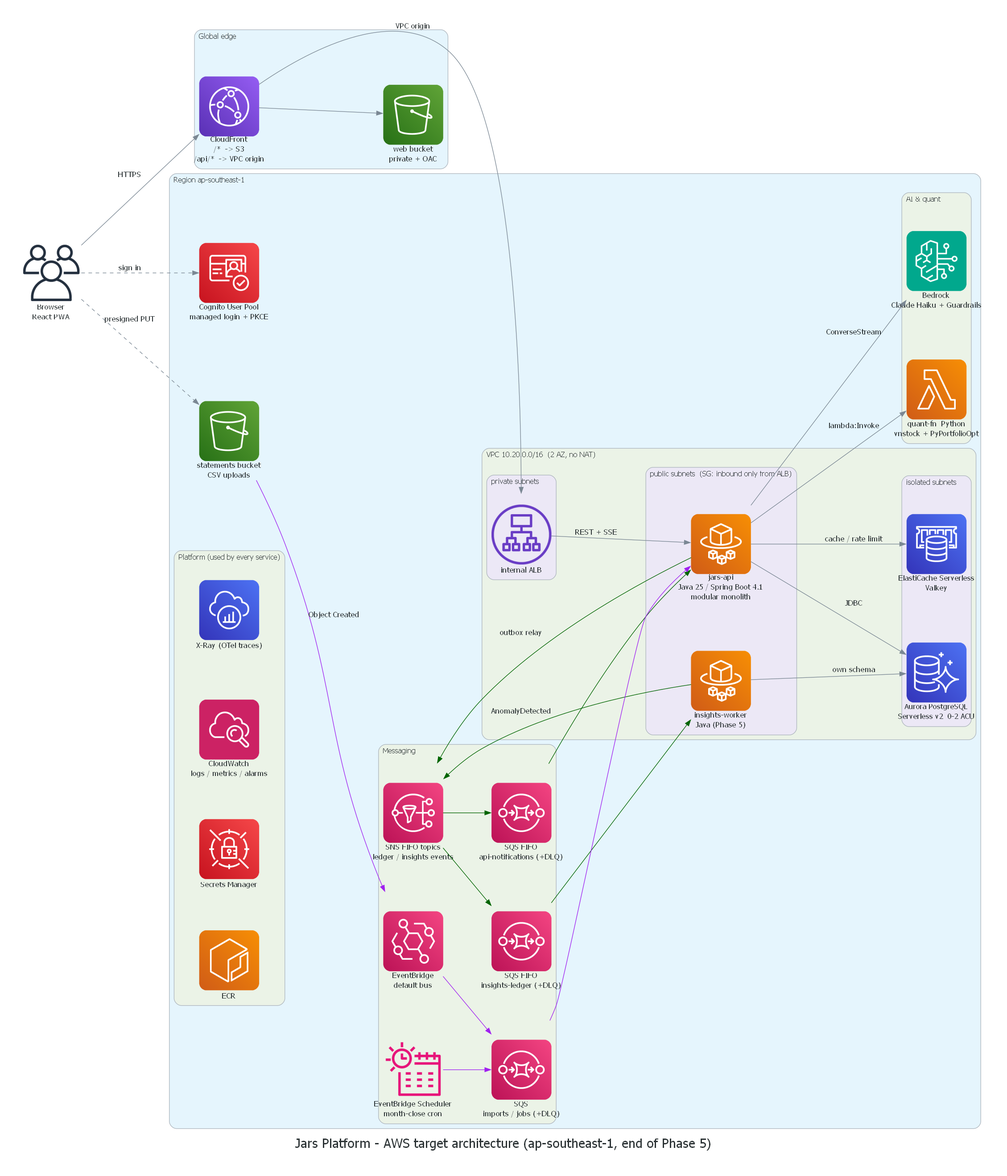
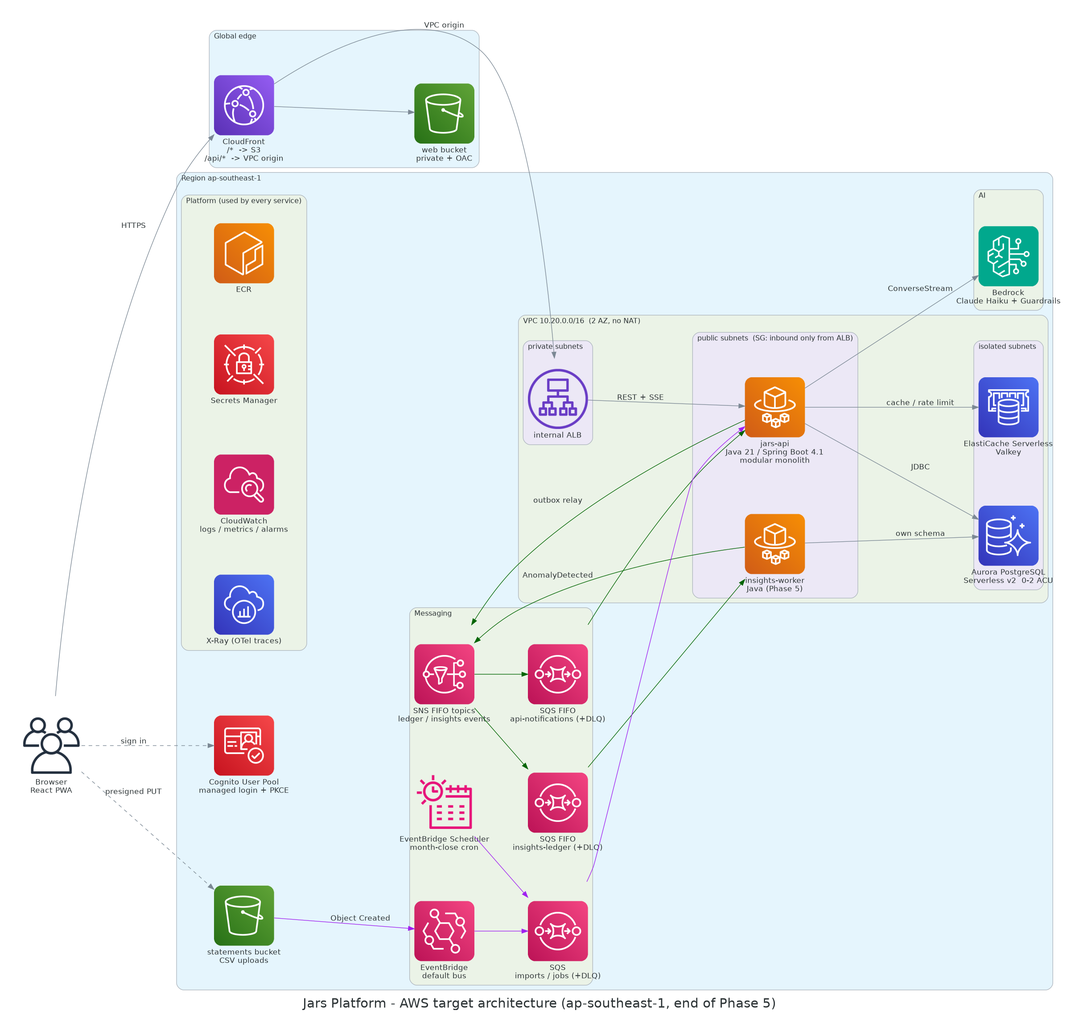
docs: drop the market module and the quant-fn Lambda (ADR-0024)
The vnstock license does not allow serving its data to third parties or redistributing the package, and without
real prices a portfolio optimizer is only a demo. Removed from the design: module market, Lambda quant-fn,
stack JarsQuant, contracts/quant, the /market endpoints and the advisor's getQuote tool. ADR-0017 is superseded.
The architecture and CI/CD diagrams are re-rendered (in a container, documented).

diff --git a/docs/diagrams/src/aws_architecture.py b/docs/diagrams/src/aws_architecture.py
@@ -5,7 +5,7 @@ Render: see docs/diagrams/README.md
 from pathlib import Path
 
 from diagrams import Cluster, Diagram, Edge
-from diagrams.aws.compute import ECR, Fargate, Lambda
+from diagrams.aws.compute import ECR, Fargate
 from diagrams.aws.database import Aurora, ElastiCache
 from diagrams.aws.devtools import XRay
 from diagrams.aws.integration import SNS, SQS, Eventbridge, EventbridgeScheduler
@@ -50,9 +50,8 @@ with Diagram("Jars Platform - AWS target architecture (ap-southeast-1, end of Ph
             sched = EventbridgeScheduler("EventBridge Scheduler\nmonth-close cron")
             q_jobs = SQS("SQS\nimports / jobs (+DLQ)")
 
-        with Cluster("AI & quant"):
+        with Cluster("AI"):
             llm = Bedrock("Bedrock\nClaude Haiku + Guardrails")
-            quant = Lambda("quant-fn  Python\nvnstock + PyPortfolioOpt")
 
         with Cluster("Platform (used by every service)"):
             ECR("ECR")
@@ -72,7 +71,6 @@ with Diagram("Jars Platform - AWS target architecture (ap-southeast-1, end of Ph
     api >> Edge(label="JDBC") >> db
     api >> Edge(label="cache / rate limit") >> cache
     api >> Edge(label="ConverseStream") >> llm
-    api >> Edge(label="lambda:Invoke") >> quant
 
     # async: outbox -> SNS FIFO -> SQS FIFO
     api >> Edge(color="darkgreen", label="outbox relay") >> topic

diff --git a/docs/diagrams/src/aws_cicd.py b/docs/diagrams/src/aws_cicd.py
@@ -5,7 +5,7 @@ Render: see docs/diagrams/README.md
 from pathlib import Path
 
 from diagrams import Cluster, Diagram, Edge
-from diagrams.aws.compute import ECR, ECS, Lambda
+from diagrams.aws.compute import ECR, ECS
 from diagrams.aws.devtools import CloudDevelopmentKit
 from diagrams.aws.management import Cloudformation
 from diagrams.aws.network import CloudFront
@@ -32,7 +32,6 @@ with Diagram("Jars Platform - CI/CD", filename=str(OUT), show=False, direction="
         cdk = CloudDevelopmentKit("cdk deploy\n-c imageTag=<sha>")
         cfn = Cloudformation("CloudFormation\nJars* stacks")
         ecs = ECS("ECS service\nrolling + circuit breaker")
-        fn = Lambda("quant-fn image")
         web = S3("web bucket")
         cdn = CloudFront("CloudFront\ninvalidation")
 
@@ -42,7 +41,6 @@ with Diagram("Jars Platform - CI/CD", filename=str(OUT), show=False, direction="
     role >> Edge(label="docker push") >> ecr
     role >> cdk >> cfn
     cfn >> ecs
-    cfn >> fn
     cfn >> Edge(label="BucketDeployment") >> web
     web >> cdn
     ecr >> Edge(style="dashed", label="pull") >> ecs

diff --git a/docs/06-plan/roadmap.md b/docs/06-plan/roadmap.md
@@ -9,7 +9,7 @@
 | 0 | Nền móng: bảo mật, tài khoản, repo, skeleton | 26/10 – 01/11/2026 → **xong 23/10** | ✅ |
 | 1 (gộp) | **Core → Cloud**: backend lõi + auth + ledger + event/cảnh báo + goals/budgeting + UI + CDK + deploy AWS + smoke test (gộp các Phase 1, 2 và 3 cũ, gồm 11 work package WP0–WP10) | 12/11/2026 → **xong 12/11/2026** | ✅ (WP0–WP10; còn nợ liệt kê ở nhật ký) |
 | ⭐ | **Mốc CV-ready**: có link demo + README tiếng Anh | cuối Phase 1 | |
-| 2 | **Thông minh và vận hành được**: CD qua OIDC, observability, import CSV, AI advisor, market + `quant-fn`, phiên kiểm chứng trên AWS (WP0–WP6) | từ 12/11/2026 | 🟡 |
+| 2 | **Thông minh và vận hành được**: CD qua OIDC, observability, import CSV, AI advisor, phiên kiểm chứng trên AWS (WP0–WP6; WP5 market + `quant-fn` đã bỏ) | từ 12/11/2026 | 🟡 |
 | 3+ | Backlog: tách insights-worker, ECS blue/green, WAF, game day, Well-Architected Tool (xem mục "Phase 3+") | chưa lên lịch | ⬜ |
 | – | Hạn cứng: credit AWS hết hạn | ~09/04/2027 | |
 
@@ -82,7 +82,7 @@ Ký hiệu: 👤 bạn tự làm (console, quyết định) · 🤖 làm cùng t
 ## Phase 2: Thông minh và vận hành được
 
 > **Quyết định 2026-11-12:** gom phần lớn backlog cũ thành một phase lớn, kết thúc bằng một phiên chạy thật trên AWS có số đo (smoke test, p95, trace, chi phí thật) rồi dọn. Java 21, chỉ code và test (không viết ghi chú học tập cho bước mới). Được deploy AWS khi cần, với điều kiện ghi chi phí trước và sau mỗi phiên và `cdk destroy` các stack tính tiền theo giờ khi xong. Trần chi phí cả phase khoảng **15 USD**.
-> **Thứ tự:** observability trước để các WP sau có trace và metric ngay; import trước advisor vì advisor cần dữ liệu giao dịch thật; `quant-fn` cuối cùng vì rủi ro cao nhất (nguồn dữ liệu có thể chặn IP AWS).
+> **Thứ tự:** observability trước để các WP sau có trace và metric ngay; import trước advisor vì advisor cần dữ liệu giao dịch thật; `quant-fn` cuối cùng vì rủi ro cao nhất (nguồn dữ liệu có thể chặn IP AWS; cuối cùng bị bỏ vì giấy phép).
 > Làm trên nhánh `feat/phase-2-intelligence`.
 
 - [x] **WP0** (12/11) Dọn nợ: sửa tài liệu còn ghi Java 25 (ADR-0006, source diagram), README web, mục lục `docs/` có `learning/`, `.gitignore` bỏ qua `cdk-outputs.json`; viết lại roadmap thành Phase 2.
@@ -90,10 +90,10 @@ Ký hiệu: 👤 bạn tự làm (console, quyết định) · 🤖 làm cùng t
 - [x] **WP2** (12/11) Observability: `spring-boot-starter-opentelemetry`, `traceId` trong log/body lỗi/`traceparent` là trace id thật của span; 3 metric nghiệp vụ đếm sau commit; sidecar ADOT v0.51.0 → X-Ray + EMF, collector chỉ giữ metric `jars.*`; dashboard `jars-dev`, alarm 5xx và p95 từ metric ALB (gộp vào `JarsApp` thay vì stack `JarsObservability`); observation cho listener SQS; `scripts/load-test.ps1` + k6 2.3.0. 582 test backend, 106 test CDK. Chạy thử local: k6 258/258 check, tracing giữ trace id gửi vào. **Chưa kiểm trên AWS** (trace thật trong X-Ray, p95 thật): WP6.
 - [x] **WP3** (13/11) Import sao kê CSV: module `imports` (`POST/GET /imports`, presigned PUT lên S3, `jars-imports` ← rule `statement-uploaded`), Spring Batch 6 (chunk 50 trong transaction của DB, skip dòng lỗi có lý do, retry khi xung đột optimistic lock, restart cùng job instance), ghi qua `LedgerApi.recordImported` với idempotency key theo SHA-256 của tệp và số dòng, chặn nhập cùng tệp hai lần, thông báo `IMPORT_COMPLETED`; port quy tắc `ingest_statement_vn` (sửa lỗi đọc "1.000" thành 1) và `_heuristic_category`; màn hình Nhập sao kê. 630 test backend, 108 test CDK, 130 test web. Đã deploy bucket, queue và rule lên AWS; upload thử thấy message tới queue. Chạy job thật trên AWS: WP6.
 - [x] **WP4** (13/11) AI advisor: module `advisor` (Spring AI 2.0 `ChatClient` + Bedrock Converse stream, Haiku 4.5), 4 tool chỉ đọc (`getJars`, `getMonthlyCashflow`, `getGoals`, `getOpenAnomalyCount`) với user lấy từ JWT qua `ToolContext`, SSE `tool`/`token`/`replace`/`done`/`error`; guardrail Bedrock bằng CDK, gọi qua `ApplyGuardrail` vì Spring AI chưa gắn được vào Converse; rate limit trong PostgreSQL ([ADR-0023](../04-adr/0023-advisor-guardrail-and-rate-limit.md)); kiểm số tiền trong câu trả lời có nguồn từ tool (metric); facade `GoalsApi`; màn Trợ lý AI. 641 test backend, 110 test CDK, 134 test web. Chạy thật với Bedrock ở local: tool gọi đúng, số khớp dữ liệu, byte đầu sau 1,3–2,1 giây, khoảng 3.700 token vào mỗi lượt. Guardrail thật: WP6.
-- [ ] **WP5** Market + `quant-fn`: ⛔ **dừng ở spike (13/11), chờ chủ repo quyết định.** vnstock không còn trên PyPI; từ thế hệ 5 là gói dựng sẵn (lõi Rust) theo giấy phép riêng, các phiên bản trước thế hệ 6 ngừng hoạt động từ 10/11/2026 (code hackathon cũ không chạy được nữa). Giấy phép bản Cộng đồng chỉ cho "mục đích cá nhân, học tập và nghiên cứu"; sản phẩm cho bên thứ ba truy xuất dữ liệu cần thoả thuận riêng bằng văn bản; cấm phân phối lại gói hoặc khoá kích hoạt (không được đóng vào image dùng chung); không kèm quyền dữ liệu của nguồn. Phần kỹ thuật thì ổn: `cvxpy` 1.9.3 có wheel `manylinux aarch64` cho Python 3.13, PyPortfolioOpt 1.6.0 giấy phép MIT. Chưa kiểm việc nguồn dữ liệu có chặn IP AWS vì chưa có nguồn hợp lệ để thử.
+- [x] ~~**WP5** Market + `quant-fn`~~: **bỏ** (13/11, chủ repo quyết định, [ADR-0024](../04-adr/0024-drop-market-and-quant-fn.md)). Kết quả spike: vnstock không còn trên PyPI; từ thế hệ 5 là gói dựng sẵn (lõi Rust) theo giấy phép riêng, các phiên bản trước thế hệ 6 ngừng hoạt động từ 10/11/2026 (code hackathon cũ không chạy được nữa). Giấy phép bản Cộng đồng chỉ cho "mục đích cá nhân, học tập và nghiên cứu"; sản phẩm cho bên thứ ba truy xuất dữ liệu cần thoả thuận riêng bằng văn bản; cấm phân phối lại gói hoặc khoá kích hoạt (không được đóng vào image dùng chung); không kèm quyền dữ liệu của nguồn. Phần kỹ thuật thì ổn: `cvxpy` 1.9.3 có wheel `manylinux aarch64` cho Python 3.13, PyPortfolioOpt 1.6.0 giấy phép MIT. Chưa kiểm việc nguồn dữ liệu có chặn IP AWS vì chưa có nguồn hợp lệ để thử.
 - [x] **WP6** (13/11) Phiên kiểm chứng trên AWS: deploy `JarsApp` với image mới, smoke test **14/14** (thêm import qua S3, chat có tool qua SSE, guardrail), k6 20 VU qua CloudFront **p95 đọc 117 ms, ghi 200 ms, 0% lỗi** (7.840 request), X-Ray có trace `jars-api`/SQS/`spring_ai`, 4 metric `jars.*` trong `Jars/Api`; `cdk destroy JarsApp`. Chạy thật lộ ba lỗi, đã sửa và có test: body `401` nối vào cuối stream SSE, guardrail coi mã hũ `NEC` là mã cổ phiếu, Flyway không chờ Aurora resume ([runbook](../05-operations/runbook.md#sự-cố-đã-gặp)). **Chưa làm:** đăng nhập bằng trình duyệt qua managed login (cần người thao tác), chạy `deploy-dev.yml` (cần merge và biến repo), smoke cho market (WP5 dừng), trace xuyên request → SQS → consumer (các message SQS hiện do S3 và EventBridge Scheduler gửi, không mang `traceparent` của request nào).
 
-**Dừng và hỏi khi:** chi phí vượt trần; spike `quant-fn` thất bại; Bedrock từ chối quyền; cần thao tác chỉ chủ repo làm được (push, merge, cài đặt GitHub, IAM user thay root theo ADR-0018); thay đổi phá dữ liệu trên Aurora hoặc xóa `JarsData`/`JarsAuth`; thiết kế phải đổi kiến trúc.
+**Dừng và hỏi khi:** chi phí vượt trần; Bedrock từ chối quyền; cần thao tác chỉ chủ repo làm được (push, merge, cài đặt GitHub, IAM user thay root theo ADR-0018); thay đổi phá dữ liệu trên Aurora hoặc xóa `JarsData`/`JarsAuth`; thiết kế phải đổi kiến trúc.
 
 ## Phase 3+: backlog (chưa lên lịch)
 

diff --git a/docs/02-architecture/aws-infrastructure.md b/docs/02-architecture/aws-infrastructure.md
@@ -18,10 +18,9 @@ Hạ tầng chia thành nhiều stack theo **vòng đời**: stack nào hay bị
 | `JarsAuth` | Cognito User Pool, managed login domain, resource server/scopes, app client `smoke` cho script smoke test | Giữ mãi (user không mất) | – |
 | `JarsMessaging` | SQS (jobs, imports) + DLQ, EventBridge rules, Scheduler; từ Phase 5: SNS FIFO + SQS FIFO. **Hiện có:** `jars-jobs` + DLQ, schedule `month-close`, `jars-imports` + DLQ, rule `statement-uploaded`, alarm cho 3 DLQ | Giữ mãi (gần như $0) | Foundation (alarm topic). Tên bucket statements suy ra từ env + account, không phụ thuộc stack Data |
 | `JarsApp` | ECS cluster, task definition, service, internal ALB, CloudFront + VPC origin, web bucket, Cognito app client, alarm Aurora không pause, (Phase 4) Valkey. Chỉ được synth khi có context `imageTag` | **Xóa khi không demo lâu ngày** | Foundation, Network, Data, Auth, Messaging |
-| `JarsQuant` | Lambda `quant-fn` (container image) | Giữ (chỉ tính tiền khi gọi) | Foundation (ECR) |
 | ~~`JarsObservability`~~ | Gộp vào `JarsApp` (construct `ApiObservability`, Phase 2 WP2): collector ADOT, dashboard `jars-dev`, alarm 5xx và p95. Xem [§11](#11-observability) | Theo `JarsApp` | – |
 
-**Thứ tự deploy lần đầu:** Foundation → Network → Auth → Data → Messaging → Quant → App → Observability. CDK tự suy ra thứ tự khi chạy `cdk deploy --all`.
+**Thứ tự deploy lần đầu:** Foundation → Network → Auth → Data → Messaging → App. CDK tự suy ra thứ tự khi chạy `cdk deploy --all`.
 
 > **Vì sao Cognito *app client* nằm ở `JarsApp` chứ không ở `JarsAuth`?** Callback URL của app client phải là domain CloudFront, mà CloudFront nằm trong `JarsApp`. Đặt app client ở `JarsAuth` sẽ tạo phụ thuộc vòng. User pool (chứa user) vẫn nằm ở `JarsAuth` nên xóa `JarsApp` không làm mất user.
 
@@ -169,20 +168,13 @@ Chi tiết schema và đảm bảo giao nhận: [event-catalog.md](event-catalog
 | Quyền IAM | Policy `ApiAdvisorPolicy` theo mẫu 3 phần của AWS cho global cross-region inference: `InvokeModel` và `InvokeModelWithResponseStream` trên inference profile ở `ap-southeast-1`, foundation model ở `ap-southeast-1` và foundation model không region (`aws:RequestedRegion = unspecified`), đều có điều kiện `bedrock:InferenceProfileArn`; `bedrock:ApplyGuardrail` trên đúng guardrail |
 | Kiểm soát chi phí | Rate limit theo user trong PostgreSQL (20 tin/giờ, 60 tin/ngày), `max-tokens` 800, metric `jars.advisor.messages`, `jars.advisor.tokens`, `jars.advisor.ungrounded`. Đo thật ngày 2026-11-13 (Haiku 4.5, dữ liệu demo): một lượt có gọi tool tốn khoảng 3.600–3.900 token vào, 150–250 token ra; byte đầu tiên sau 1,3–2,1 giây |
 
-## 9. Quant: Lambda `quant-fn`
+## 9. ~~Quant: Lambda `quant-fn`~~ (đã bỏ)
 
-| Hạng mục | Cấu hình |
-|---|---|
-| Runtime | Container image `public.ecr.aws/lambda/python:3.13` (arm64; nếu wheel `cvxpy` gặp vấn đề trên arm64 thì chuyển x86_64) |
-| Memory / timeout | 1024 MB / 30 s |
-| Gọi từ | jars-api qua `LambdaClient.invoke` (IAM); **không** có Function URL hay API Gateway |
-| Operations | `quote`, `history`, `optimize` (JSON contract trong `contracts/quant/`, tạo ở Phase 4) |
-| Network | Không đặt trong VPC (cần internet để gọi nguồn dữ liệu của vnstock) |
-| Rủi ro | Nguồn dữ liệu có thể chặn IP datacenter → làm spike sớm ở Phase 4; kiểm tra license của vnstock (dùng phi thương mại) |
+Lambda Python lấy giá cổ phiếu bằng vnstock và tối ưu danh mục bằng PyPortfolioOpt đã bị bỏ khỏi thiết kế vì giấy phép của vnstock không cho dùng trong sản phẩm cho bên thứ ba ([ADR-0024](../04-adr/0024-drop-market-and-quant-fn.md)).
 
 ## 10. Cache: ElastiCache Serverless (Valkey), Phase 4
 
-Dùng cho: cache giá cổ phiếu (TTL 60 s), cache dashboard, **rate limit chat**, **pub/sub fan-out thông báo** khi có ≥ 2 task jars-api. Chi phí tối thiểu khoảng $6/tháng (tối thiểu 100 MB dữ liệu được tính phí, theo nguồn bên thứ ba, cần kiểm tra lại). Resource này nằm trong `JarsApp` nên bị xóa cùng app khi teardown. Ở local dùng container `valkey/valkey`.
+Dùng cho: cache dashboard, **rate limit chat**, **pub/sub fan-out thông báo** khi có ≥ 2 task jars-api. Chi phí tối thiểu khoảng $6/tháng (tối thiểu 100 MB dữ liệu được tính phí, theo nguồn bên thứ ba, cần kiểm tra lại). Resource này nằm trong `JarsApp` nên bị xóa cùng app khi teardown. Ở local dùng container `valkey/valkey`.
 
 ## 11. Observability
 
@@ -212,7 +204,7 @@ Chưa làm (Phase 3+): `traceparent` trong message attributes khi **app gửi** 
 
 | Dịch vụ | Dùng làm gì | Ghi chú |
 |---|---|---|
-| ECR | `jars/jars-api`, `jars/insights-worker`, `jars/quant-fn` | Lifecycle: giữ 10 image gần nhất; bật basic scan on push; **tag immutable** (git SHA không bị ghi đè) |
+| ECR | `jars/jars-api`, `jars/insights-worker` (Phase 3+) | Lifecycle: giữ 10 image gần nhất; bật basic scan on push; **tag immutable** (git SHA không bị ghi đè) |
 | S3 (`statements`, `web`) | Upload sao kê, static web | Block Public Access; bucket policy `enforceSSL`; SSE-S3; `statements/uploads/` **tự xóa sau 7 ngày** (lifecycle) |
 | Cost Anomaly Detection | Phát hiện chi phí tăng bất thường | Không tính phí; email alert hằng ngày |
 | IAM Access Analyzer | Phát hiện resource bị chia sẻ public hoặc cross-account | External access analyzer miễn phí (unused access analyzer **có phí**, không bật) |

diff --git a/README.vi.md b/README.vi.md
@@ -4,14 +4,14 @@
 
 [![ci](https://github.com/thphuc06/jar-platform/actions/workflows/ci.yml/badge.svg)](https://github.com/thphuc06/jar-platform/actions/workflows/ci.yml)
 
-Ứng dụng quản lý tài chính cá nhân theo **phương pháp 6 chiếc hũ (6 Jars)**: chia thu nhập vào hũ, theo dõi chi tiêu, phát hiện chi tiêu bất thường, lập lộ trình tiết kiệm cho mục tiêu, và có trợ lý AI tư vấn. Kèm theo đó là phần phân tích cổ phiếu Việt Nam dành cho mục đích giáo dục.
+Ứng dụng quản lý tài chính cá nhân theo **phương pháp 6 chiếc hũ (6 Jars)**: chia thu nhập vào hũ, theo dõi chi tiêu, phát hiện chi tiêu bất thường, lập lộ trình tiết kiệm cho mục tiêu, và có trợ lý AI tư vấn.
 
 Đây là **repo cá nhân**, viết lại **từ đầu** project hackathon *Jars/IUS* (org `swinhackathon`). Mục tiêu là làm một **portfolio Java Backend + AWS** (khi hoàn thành sẽ demo và đưa lên CV được những gì: [cv-showcase.md](docs/01-product/cv-showcase.md)):
 - Backend viết bằng **Java 21 + Spring Boot 4.1** ([ADR-0019](docs/04-adr/0019-java-21-lts.md)).
-- Hạ tầng **AWS-native**: ECS Fargate, Aurora Serverless v2, Cognito, SNS/SQS, EventBridge, Bedrock, Lambda; tất cả dựng bằng **AWS CDK (Java)**.
-- Python chỉ dùng ở chỗ nó thật sự có lợi thế: `quant-fn` (vnstock + PyPortfolioOpt).
+- Hạ tầng **AWS-native**: ECS Fargate, Aurora Serverless v2, Cognito, SNS/SQS, EventBridge, Bedrock; tất cả dựng bằng **AWS CDK (Java)**.
+- Không có Python ở runtime: phần cổ phiếu (vnstock, PyPortfolioOpt) của bản hackathon đã bỏ vì giấy phép của nguồn dữ liệu ([ADR-0024](docs/04-adr/0024-drop-market-and-quant-fn.md)).
 
-> **Trạng thái (2026-11-13):** ✅ Backend lõi chạy được và đã deploy thử lên AWS bằng CDK (Cognito, VPC không NAT, Aurora Serverless v2 scale-to-zero, ECS Fargate ARM64, CloudFront). Có thêm ngân sách, khép sổ tháng, mục tiêu và web client React. Phase 2 thêm import sao kê CSV (Spring Batch, S3 → EventBridge → SQS), trợ lý AI trên Bedrock có guardrail, và OpenTelemetry → X-Ray/CloudWatch. 645 test backend, coverage dòng 94,2%; smoke test trên AWS 14/14; k6 qua CloudFront p95 đọc 117 ms, p95 ghi 200 ms. Phần market/`quant-fn` đang dừng vì giấy phép vnstock. Chi tiết tiến độ và những gì chưa làm: [docs/06-plan/roadmap.md](docs/06-plan/roadmap.md).
+> **Trạng thái (2026-11-13):** ✅ Backend lõi chạy được và đã deploy thử lên AWS bằng CDK (Cognito, VPC không NAT, Aurora Serverless v2 scale-to-zero, ECS Fargate ARM64, CloudFront). Có thêm ngân sách, khép sổ tháng, mục tiêu và web client React. Phase 2 thêm import sao kê CSV (Spring Batch, S3 → EventBridge → SQS), trợ lý AI trên Bedrock có guardrail, và OpenTelemetry → X-Ray/CloudWatch. 645 test backend, coverage dòng 94,2%; smoke test trên AWS 14/14; k6 qua CloudFront p95 đọc 117 ms, p95 ghi 200 ms. Phần cổ phiếu (market, `quant-fn`) đã bỏ ([ADR-0024](docs/04-adr/0024-drop-market-and-quant-fn.md)). Chi tiết tiến độ và những gì chưa làm: [docs/06-plan/roadmap.md](docs/06-plan/roadmap.md).
 
 ![AWS target architecture](docs/diagrams/aws-architecture.png)
 
@@ -23,7 +23,6 @@
 | Database | Amazon Aurora PostgreSQL Serverless v2 (scale-to-zero) |
 | Messaging | Transactional outbox (Spring Modulith) → SNS FIFO → SQS FIFO; EventBridge (S3 events) và EventBridge Scheduler |
 | AI | Amazon Bedrock (Claude Haiku, cross-region inference profile) + Bedrock Guardrails |
-| Quant | AWS Lambda (Python 3.13, container image): vnstock + PyPortfolioOpt |
 | Frontend | React + Vite + shadcn/ui (PWA), host trên S3 + CloudFront |
 | Auth | Amazon Cognito User Pool (managed login, Authorization Code + PKCE) |
 | Compute | Amazon ECS on AWS Fargate (ARM64 / Graviton) |
@@ -40,8 +39,6 @@ jar-platform/
 │   ├── jars-api/          # Java 21 · Spring Boot 4.1 · modular monolith (Maven)
 │   ├── insights-worker/   # Java · service tách ra ở Phase 5 (consumer SQS)
 │   └── web/               # React + Vite PWA (chuyển từ ius_financial_ui)
-├── functions/
-│   └── quant-fn/          # Python 3.13 Lambda: vnstock + PyPortfolioOpt
 ├── infra/
 │   └── cdk/               # AWS CDK v2 viết bằng Java: toàn bộ hạ tầng
 ├── contracts/

diff --git a/docs/02-architecture/security.md b/docs/02-architecture/security.md
@@ -34,9 +34,8 @@ Nguyên tắc **least privilege**: không dùng `*` ở resource, trừ khi API 
 | Role | Ai assume | Quyền |
 |---|---|---|
 | `jars-dev-api-exec` (execution role) | ECS agent | `ecr:GetAuthorizationToken` (`Resource: *` vì IAM không hỗ trợ resource-level cho action này); `ecr:BatchCheckLayerAvailability`, `ecr:BatchGetImage`, `ecr:GetDownloadUrlForLayer` trên repo `jars/jars-api`; `logs:CreateLogStream`, `logs:PutLogEvents` trên log group `/jars/dev/api`; `secretsmanager:GetSecretValue`, `secretsmanager:DescribeSecret` trên secret DB |
-| `jars-dev-api-task` (task role) | Code của jars-api | `bedrock:InvokeModel`, `bedrock:InvokeModelWithResponseStream` trên ARN inference profile + foundation model đã chọn; `bedrock:ApplyGuardrail` trên guardrail; `sqs:ReceiveMessage`, `sqs:DeleteMessage`, `sqs:ChangeMessageVisibility`, `sqs:GetQueueAttributes`, `sqs:GetQueueUrl` (app cấu hình theo tên queue nên Spring Cloud AWS phải tra URL) trên các queue của API; `sns:Publish` trên topic ledger; `s3:PutObject` (để ký presigned URL) + `s3:GetObject` trên `jars-dev-statements-<account>/uploads/*` (đã cài ở Phase 2 WP3, cùng quyền consume `jars-imports`); `lambda:InvokeFunction` trên `quant-fn` |
+| `jars-dev-api-task` (task role) | Code của jars-api | `bedrock:InvokeModel`, `bedrock:InvokeModelWithResponseStream` trên ARN inference profile + foundation model đã chọn; `bedrock:ApplyGuardrail` trên guardrail; `sqs:ReceiveMessage`, `sqs:DeleteMessage`, `sqs:ChangeMessageVisibility`, `sqs:GetQueueAttributes`, `sqs:GetQueueUrl` (app cấu hình theo tên queue nên Spring Cloud AWS phải tra URL) trên các queue của API; `sns:Publish` trên topic ledger; `s3:PutObject` (để ký presigned URL) + `s3:GetObject` trên `jars-dev-statements-<account>/uploads/*` (đã cài ở Phase 2 WP3, cùng quyền consume `jars-imports`) |
 | `jars-dev-worker-task` (Phase 5) | insights-worker | Nhận và xóa message trên `jars-insights-ledger.fifo`; publish lên `jars-insights-events.fifo` |
-| `jars-dev-quant-fn` | Lambda | Chỉ có `AWSLambdaBasicExecutionRole` (ghi log) |
 | `jars-dev-github-deploy` | GitHub Actions qua OIDC | Trust policy chỉ chấp nhận `StringEquals` với `token.actions.githubusercontent.com:sub = repo:thphuc06/jar-platform:ref:refs/heads/main` và `aud = sts.amazonaws.com` (không wildcard, không environment). Quyền: (1) `sts:AssumeRole` trên 4 role bootstrap của CDK (`cdk-hnb659fds-deploy-role`, `-file-publishing-role`, `-image-publishing-role`, `-lookup-role`) của đúng account và region này; (2) policy riêng `GitHubDeployRuntimePolicy` cho việc làm ngoài CloudFormation: push image vào **đúng repo** `jars/jars-api` (+ `ecr:GetAuthorizationToken`), `cloudformation:DescribeStacks` trên stack `Jars*`, `elasticloadbalancing:DescribeLoadBalancers` (smoke test kiểm ALB internal); (3) policy trong `JarsAuth`: `AdminCreateUser/SetUserPassword/InitiateAuth/DeleteUser` trên **đúng user pool** cho user tạm của smoke test. Workflow chỉ deploy `JarsApp` (`--exclusively`), không đụng stack chứa chính role này |
 | `jars-dev-scheduler` | EventBridge Scheduler (kèm điều kiện `aws:SourceAccount`) | `sqs:SendMessage` trên `jars-jobs` và trên `jars-jobs-scheduler-dlq` (DLQ cho lần gửi lỗi của schedule) |
 

diff --git a/docs/03-api/api-contract.md b/docs/03-api/api-contract.md
@@ -39,7 +39,7 @@
 | 409 | Xung đột đồng thời (version hoặc deadlock) còn lại sau khi đã retry tối đa 5 lần |
 | 422 | Sai quy tắc nghiệp vụ (validation, số dư, Idempotency-Key bị dùng lại với request khác) |
 | 429 | Vượt rate limit (có header `Retry-After`) |
-| 503 | Phụ thuộc bên ngoài lỗi (quant-fn, Bedrock); circuit đang mở |
+| 503 | Phụ thuộc bên ngoài lỗi (Bedrock); circuit đang mở |
 
 ## 2. Endpoint
 
@@ -112,13 +112,6 @@
 | GET | `/chat/sessions/{id}/messages` | 100 tin nhắn gần nhất (`role` `USER`/`ASSISTANT`) | 2 ✅ |
 | POST | `/chat/sessions/{id}/messages` | `{content}` (1–2000 ký tự) → **SSE** stream. Lỗi trả **trước** khi stream bắt đầu, dạng problem+json thường: 404 phiên không phải của user, 422 tin nhắn rỗng/quá dài, 429 `advisor-rate-limited` kèm `Retry-After` (mặc định 20 tin/giờ, 60 tin/ngày), 503 `advisor-unavailable` khi môi trường không có model (local) | 2 ✅ |
 
-### Market (giáo dục)
-| Method | Path | Mô tả | Phase |
-|---|---|---|---|
-| GET | `/market/quotes/{symbol}` | Giá (cache 60 s) | 4 |
-| GET | `/market/history/{symbol}?from&to` | Lịch sử giá | 4 |
-| POST | `/market/portfolio/optimize` | `{symbols[], riskLevel}` → trọng số (tham khảo) | 4 |
-
 ## 3. Hợp đồng SSE
 
 Dùng **`fetch` + ReadableStream** (ví dụ thư viện `@microsoft/fetch-event-source`). `EventSource` gốc của trình duyệt **không gửi được header `Authorization`** và chỉ hỗ trợ GET.
@@ -187,6 +180,6 @@ UI hiện tại (`ius_financial_ui`) gọi thẳng Supabase. Bảng dưới đâ
 | Budget Jars (`pages/BudgetJars.tsx`) | `useJars`, `useAddJar`, `useUpdateJarAllocation`, `useDeleteJar`, `useJarSpending`, `useJarMonthlyTrend`, `useLatestBalance` | `GET/POST/PATCH/DELETE /jars`, `GET /budget/periods/{month}`, `GET /dashboard` |
 | Goal Planner (`pages/GoalPlanner.tsx`) + `components/roadmap/*` (đang dùng mock) | `useGoals`, `useAddGoal`, `useDeleteGoal`, `useBalanceHistory`, `mock-roadmap.ts` | `/goals/*`, `/goals/{id}/roadmap`, `/balances/daily` |
 | Alerts (`pages/Alerts.tsx`) | `useNotifications`, `useDismissNotification` | `/notifications`, `/notifications/stream`, `/anomalies/{id}/feedback` |
-| AI Chat (`pages/AIChat.tsx`, `FloatingChat.tsx`) | `POST {CHAT_STREAM_URL}` + `POST {STOCK_AGENT_URL}/ask` | `/chat/sessions/*` (một endpoint; câu hỏi cổ phiếu do tool `market` xử lý) |
+| AI Chat (`pages/AIChat.tsx`, `FloatingChat.tsx`) | `POST {CHAT_STREAM_URL}` + `POST {STOCK_AGENT_URL}/ask` | `/chat/sessions/*` (một endpoint; câu hỏi mua bán cổ phiếu bị guardrail từ chối, ADR-0024) |
 | `lib/api.ts` | **Không file nào dùng** | Xóa; thay bằng client sinh từ OpenAPI |
 | `lib/supabase.ts`, `hooks/useSupabaseData.ts` | Supabase client | Xóa sau khi chuyển xong |

diff --git a/docs/04-adr/0024-drop-market-and-quant-fn.md b/docs/04-adr/0024-drop-market-and-quant-fn.md
@@ -1,0 +1,32 @@
+# ADR-0024: Bỏ module `market` và Lambda `quant-fn` (vnstock, PyPortfolioOpt)
+
+- **Trạng thái:** Accepted
+- **Ngày:** 2026-11-13
+- **Thay thế:** [ADR-0017](0017-python-quant-lambda.md)
+
+## Bối cảnh
+ADR-0017 giữ lại phần Python của prototype hackathon dưới dạng một Lambda `quant-fn`. Lambda này lấy giá cổ phiếu Việt Nam bằng vnstock và tối ưu danh mục bằng PyPortfolioOpt. Module `market` của `jars-api` gọi Lambda này, và advisor có thêm tool `getQuote`. ADR-0017 đặt điều kiện phải spike trước. Kết quả spike (Phase 2 WP5, 13/11/2026):
+
+- **vnstock không dùng được cho sản phẩm này.**
+  - Gói không còn trên PyPI.
+  - Từ thế hệ 5, vnstock là gói dựng sẵn theo giấy phép riêng. Các phiên bản trước thế hệ 6 ngừng hoạt động từ 10/11/2026, nên code của prototype không còn chạy.
+  - Bản Community chỉ cho mục đích cá nhân, học tập và nghiên cứu. Muốn cho bên thứ ba truy xuất dữ liệu thì cần thoả thuận bằng văn bản.
+  - Giấy phép cấm phân phối lại gói, nên không được đóng gói vào image.
+- **Không có vnstock thì PyPortfolioOpt không còn giá trị.** Tối ưu Markowitz trên dữ liệu giá giả hoặc giá đóng băng chỉ là phần trình diễn, không phục vụ người dùng.
+- Phần lõi của sản phẩm là các hũ, sổ cái, cảnh báo, ngân sách, mục tiêu, import và advisor. Phần lõi không phụ thuộc vào giá cổ phiếu.
+
+## Quyết định
+- Bỏ khỏi thiết kế:
+  - Module `market`.
+  - Lambda `quant-fn` và thư mục `functions/quant-fn`.
+  - Stack `JarsQuant` và repository ECR `jars/quant-fn`.
+  - Contract `contracts/quant/`.
+  - Ba endpoint `/market/*`.
+  - Tool `getQuote` của advisor.
+- Advisor tiếp tục từ chối khuyến nghị mua bán chứng khoán bằng denied topic của guardrail ([ADR-0023](0023-advisor-guardrail-and-rate-limit.md)). Nó trả lời dựa trên dữ liệu tài chính của chính người dùng.
+- `jars-api` là thành phần duy nhất của hệ thống. Không còn Python trong runtime.
+
+## Hệ quả
+- Kiến trúc gọn hơn: không có Lambda gọi đồng bộ, không cần circuit breaker cho nó, và không có Python trong pipeline CI.
+- Mất phần trình diễn "tích hợp Lambda Python". Nếu cần ví dụ về Lambda, có thể làm trên chính nghiệp vụ của project. Một ví dụ là xử lý sao kê bằng Lambda, nhưng hiện chưa có lý do để làm.
+- Nếu sau này có nguồn dữ liệu giá có giấy phép phù hợp, thì viết một ADR mới. Không khôi phục ADR-0017, vì giả định về vnstock trong đó đã sai.

diff --git a/docs/02-architecture/modules.md b/docs/02-architecture/modules.md
@@ -19,7 +19,6 @@ io.github.thphuc06.jars
 ├── insights/
 ├── notification/
 ├── advisor/
-├── market/
 └── imports/
 ```
 
@@ -41,7 +40,6 @@ io.github.thphuc06.jars
 | `insights` | Phân tích chi tiêu, phát hiện bất thường, read model cho dashboard | `anomaly_detector_state`, `anomalies`, `monthly_jar_spend`, `monthly_category_spend`, `monthly_cashflow` | `InsightsApi`: `monthlyCashflow(userId, lastMonths)` (thu chi theo tháng), `openAnomalyCount(userId)`. Dashboard, cảnh báo là REST | `AnomalyDetected` | `TransactionPosted`, `TransactionRecategorized` | `cusum_engine`, `anomaly.py` (MAD), `spend.py`, `recurring.py` |
 | `notification` | Lưu thông báo, đẩy SSE, (tùy chọn) email SES | `notifications` | `stream(userId)` (REST/SSE) | – | `AnomalyDetected`, `MonthClosed` (đã cài), `StatementImportCompleted` | `tier1_notifications` cũ |
 | `advisor` | Chat AI: phiên chat, tool calling chỉ đọc (user lấy từ JWT qua `ToolContext`), guardrail (`ApplyGuardrail`), rate limit trong PostgreSQL ([ADR-0023](../04-adr/0023-advisor-guardrail-and-rate-limit.md)) | `chat_sessions`, `chat_messages`, `advisor_usage` | – (chỉ có REST/SSE) | – | – | `agent/` (Strands), `kb/*.md` |
-| `market` | Gateway tới `quant-fn`, cache giá | – | `quote(symbol)`, `history(...)`, `optimize(...)` | – | – | `vnstock_service.py`, `pypfopt_optimizer.py` (vẫn chạy bằng Python) |
 | `imports` | Import sao kê CSV: presigned URL, Spring Batch job (chunk 50, skip, retry, restart) | `statement_imports`, `statement_import_errors` (+ bảng metadata của Spring Batch) | Chưa có `XxxApi`: REST `/imports` và listener SQS; ghi vào ledger qua `LedgerApi.recordImported` (tham gia transaction của chunk) | `StatementImportCompleted` | SQS `jars-imports` | `ingest_statement_vn` |
 | `shared` | Value object và tiện ích dùng chung | – | `Money`, `UserId`, `Month`, `ProblemTypes` | – | – | – |
 
@@ -68,7 +66,6 @@ flowchart LR
     advisor --> budgeting
     advisor --> goals
     advisor --> insights
-    advisor --> market
     advisor --> identity
 ```
 
